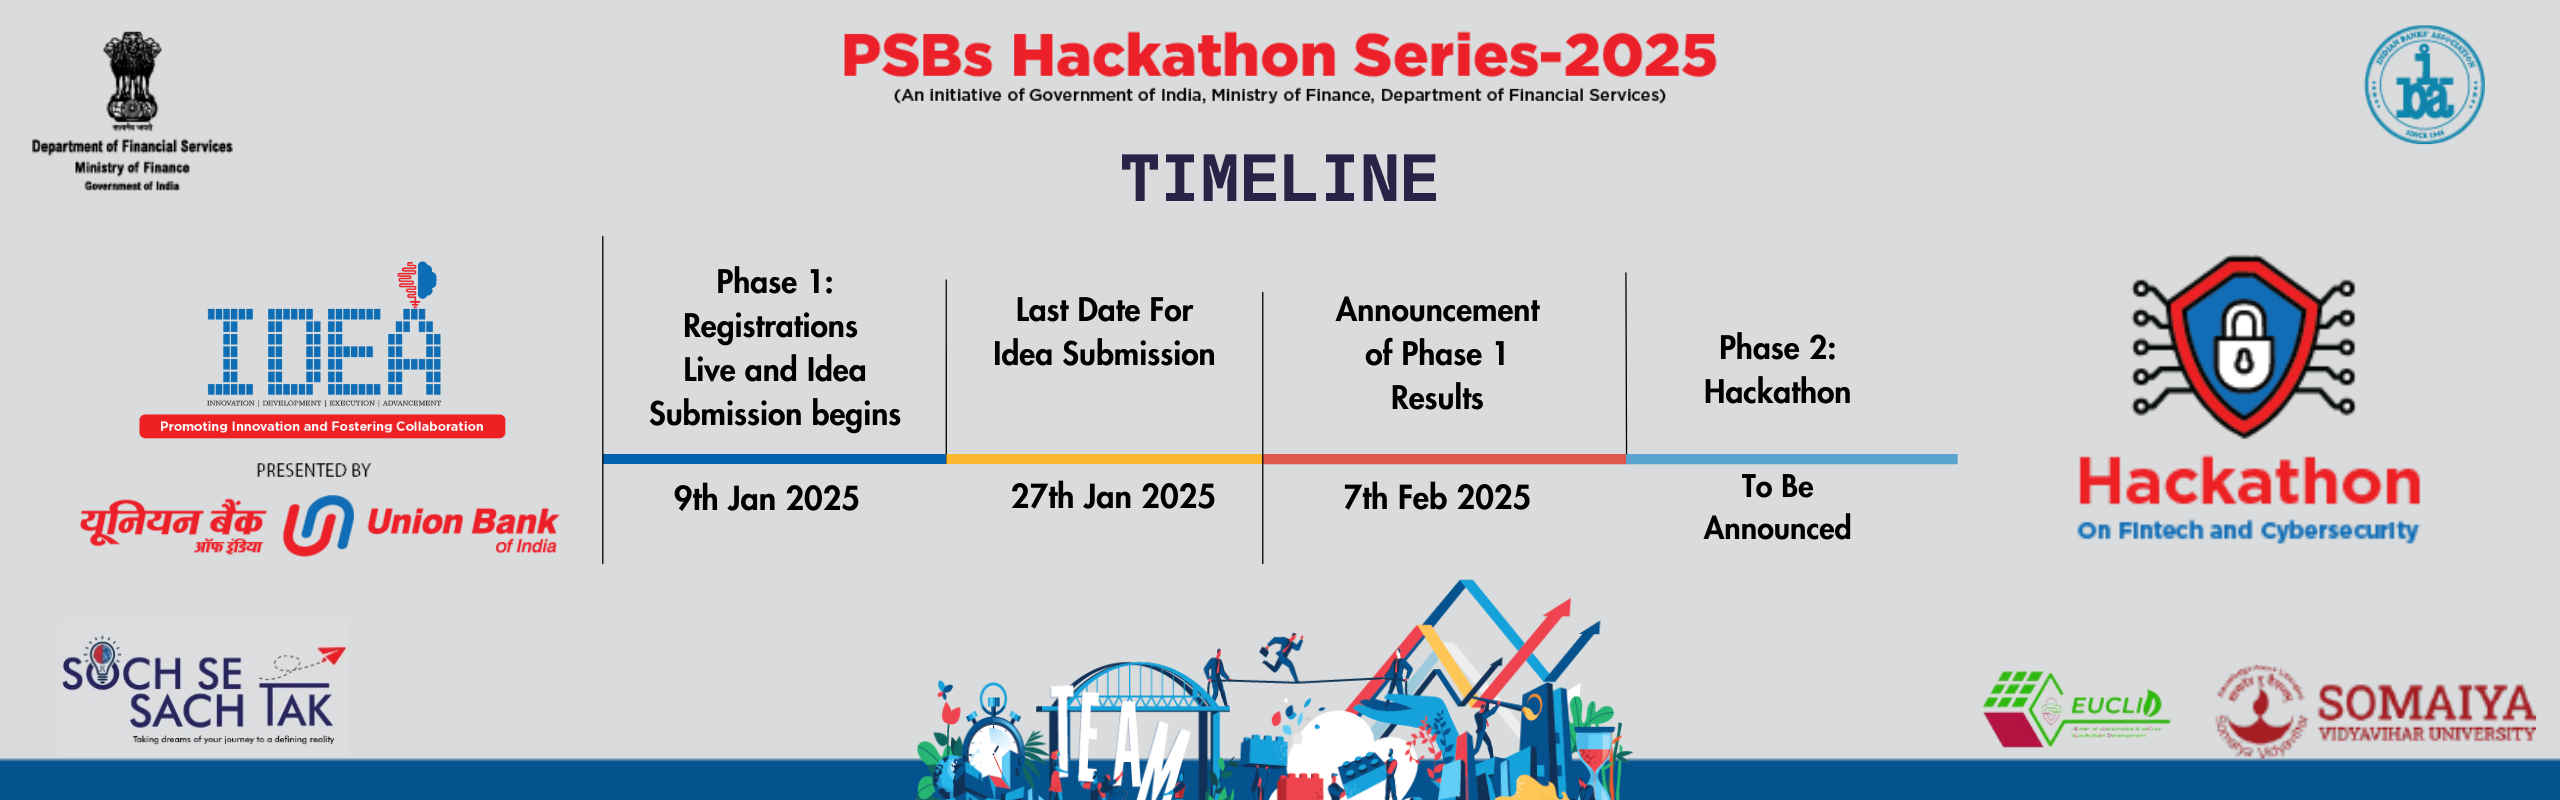
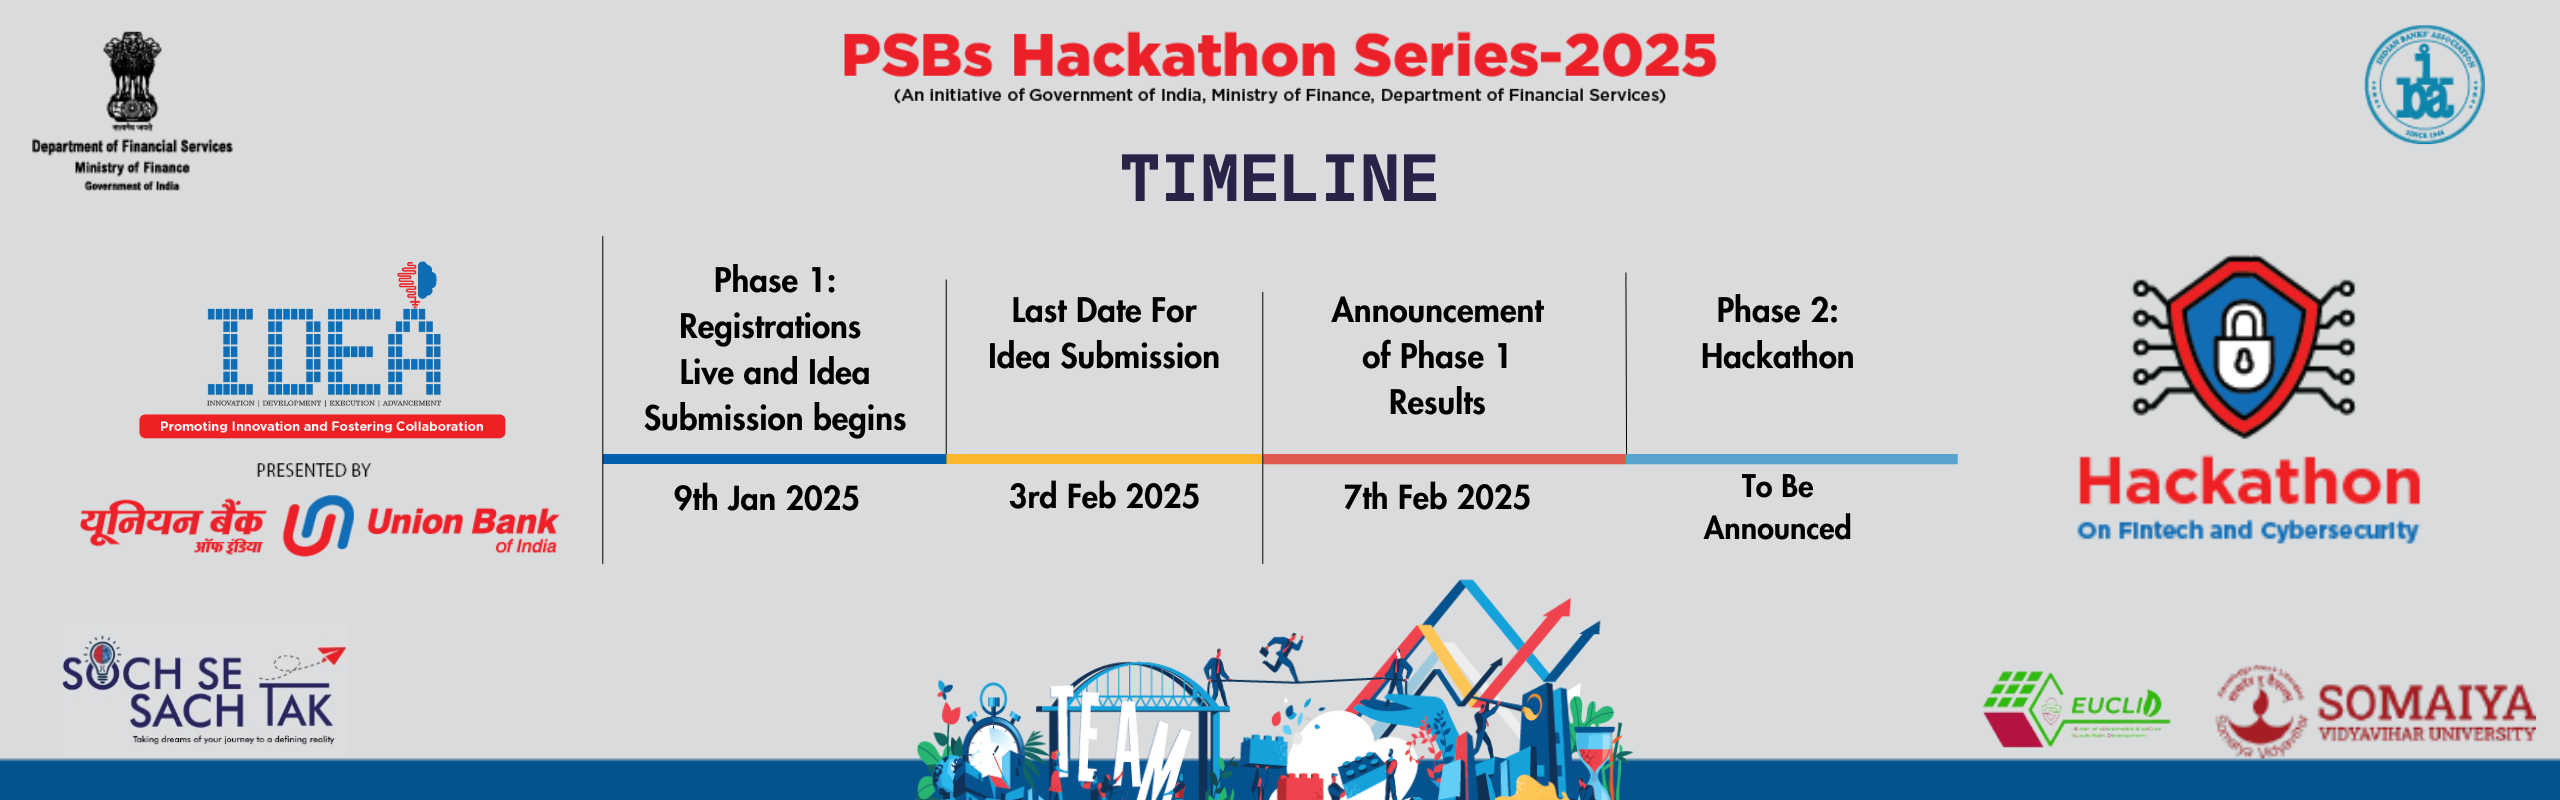
dates changed

diff --git a/packages/csi-hack3/src/pages/Home/Sections/Timeline.jsx b/packages/csi-hack3/src/pages/Home/Sections/Timeline.jsx
@@ -23,7 +23,7 @@ const TIMELINE_DATA = [
     icon: EditIcon
   },
   {
-    date: "27th Jan 2025",
+    date: "3rd Feb 2025",
     title: "Last Date for Idea Submission",
     content: "Final day to submit your groundbreaking ideas. Don't miss this deadline!",
     icon: SendIcon
